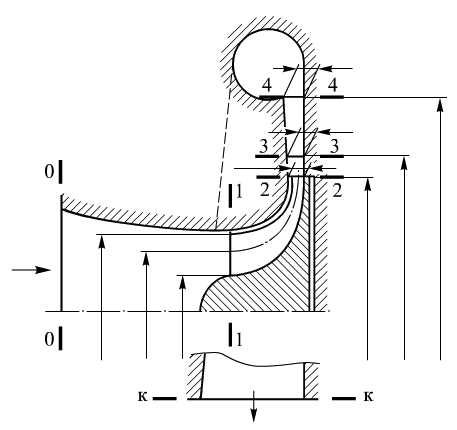
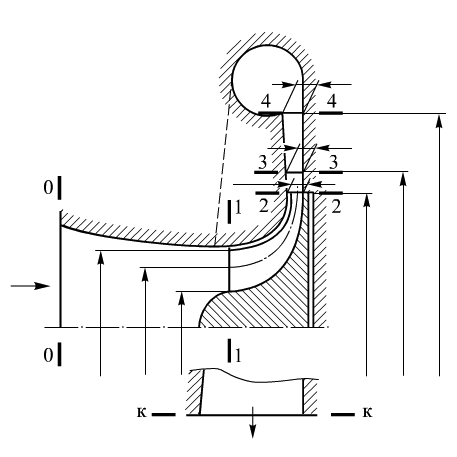
Set values in Windows OS in normal way

Changed region(s): [[0.0306, 0.0302, 0.9803, 0.9674], [0.0919, 0.7558, 0.1532, 0.8163]]

diff --git a/compressor/include/picturesEditor.py b/compressor/include/picturesEditor.py
@@ -7,18 +7,18 @@ font = ImageFont.truetype("../programFiles/fontGOST.ttf", 22)
 # axisCut.png
 axisCut=Image.open("../programFiles/compressor/axisCut.png")
 d = ImageDraw.Draw(axisCut)
-d.text((331, 49),  str(round(b_4*1e+03, 2)), (0,0,0), font=font)
+d.text((331, 69),  str(round(b_4*1e+03, 2)), (0,0,0), font=font)
 # d.text((331, 115), str(round(b_3*1e+03, 2)), (0,0,0), font=font)
-d.text((217, 150), str(round(b_2*1e+03, 2)), (0,0,0), font=font)
+d.text((217, 168), str(round(b_2*1e+03, 2)), (0,0,0), font=font)
 
 axisCut = axisCut.rotate(-90)
 d = ImageDraw.Draw(axisCut)
-d.text((75, 67),  str(round(D_1H*1e+03, 2)), (0,0,0), font=font)
-d.text((75, 113), str(round(D_1*1e+03, 2)), (0,0,0), font=font)
-d.text((75, 150), str(round(D_1B*1e+03, 2)), (0,0,0), font=font)
-d.text((75, 335), str(round(D_2*1e+03, 2)), (0,0,0), font=font)
+d.text((75, 82),  str(round(D_1H*1e+03, 2)), (0,0,0), font=font)
+d.text((75, 127), str(round(D_1*1e+03, 2)), (0,0,0), font=font)
+d.text((75, 163), str(round(D_1B*1e+03, 2)), (0,0,0), font=font)
+d.text((75, 348), str(round(D_2*1e+03, 2)), (0,0,0), font=font)
 # d.text((75, 370), str(round(D_3*1e+03, 2)), (0,0,0), font=font)
-d.text((75, 409), str(round(D_4*1e+03, 2)), (0,0,0), font=font)
+d.text((75, 422), str(round(D_4*1e+03, 2)), (0,0,0), font=font)
 
 axisCut.rotate(90).save("axisCut.png")
 
